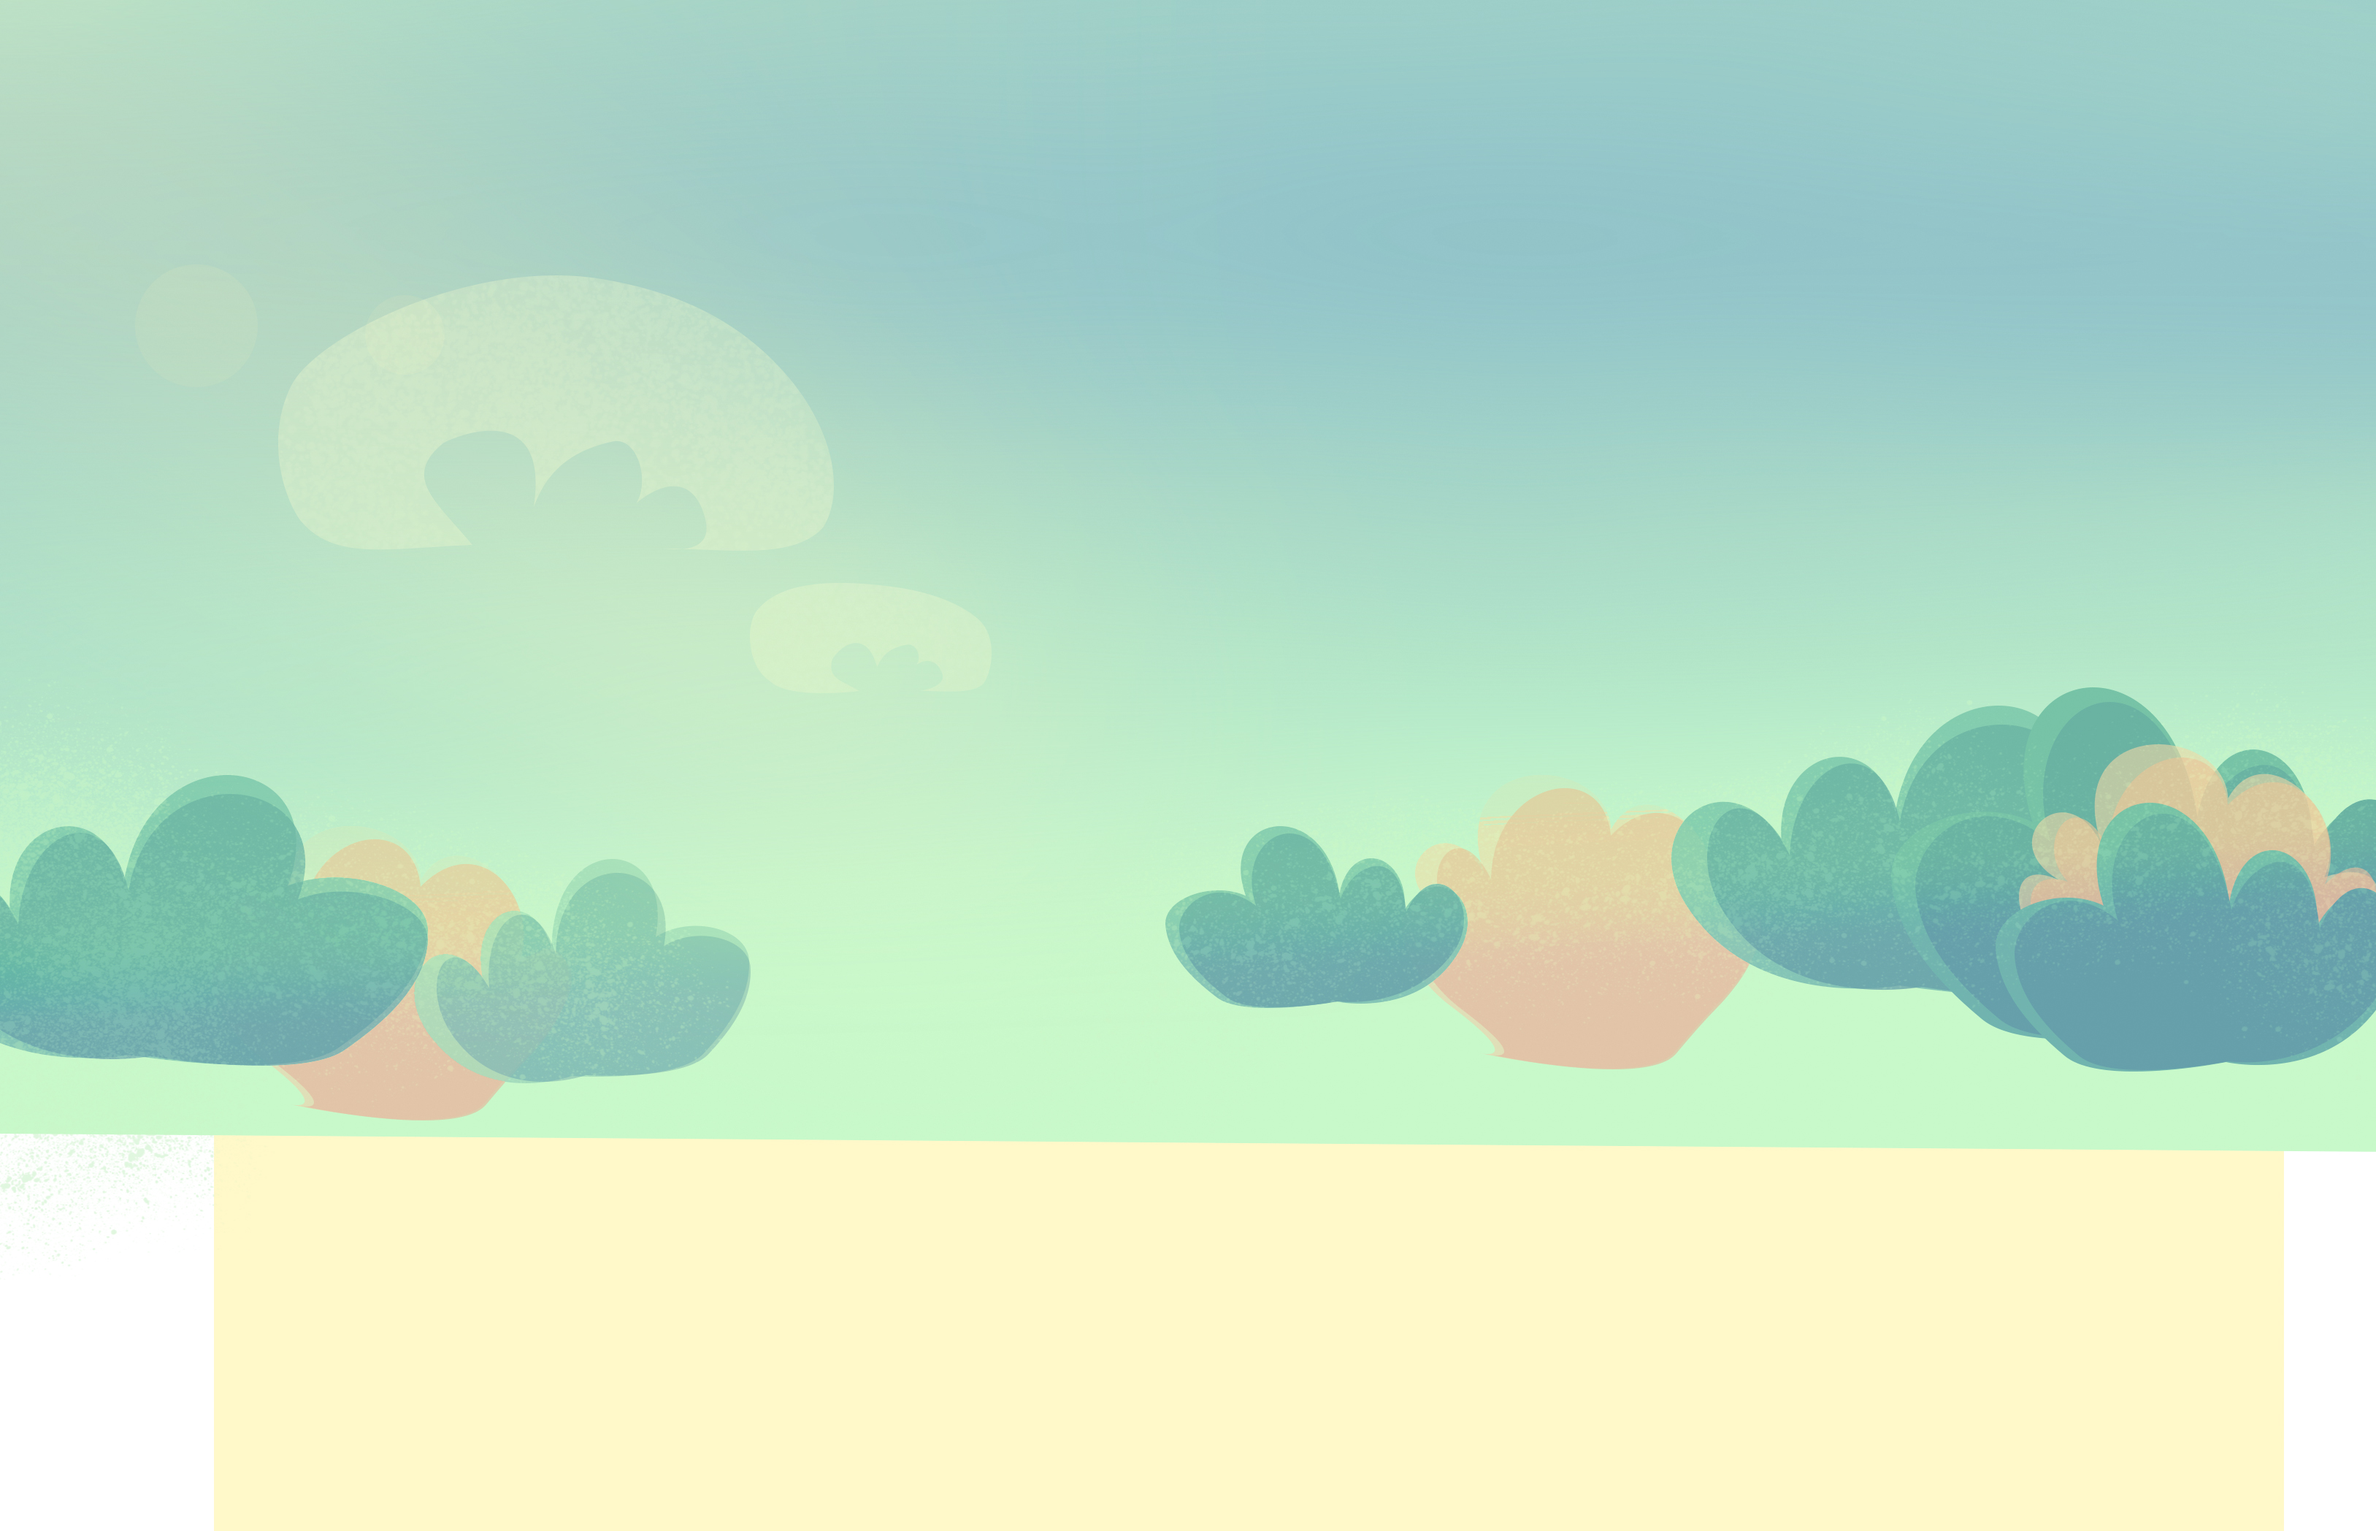
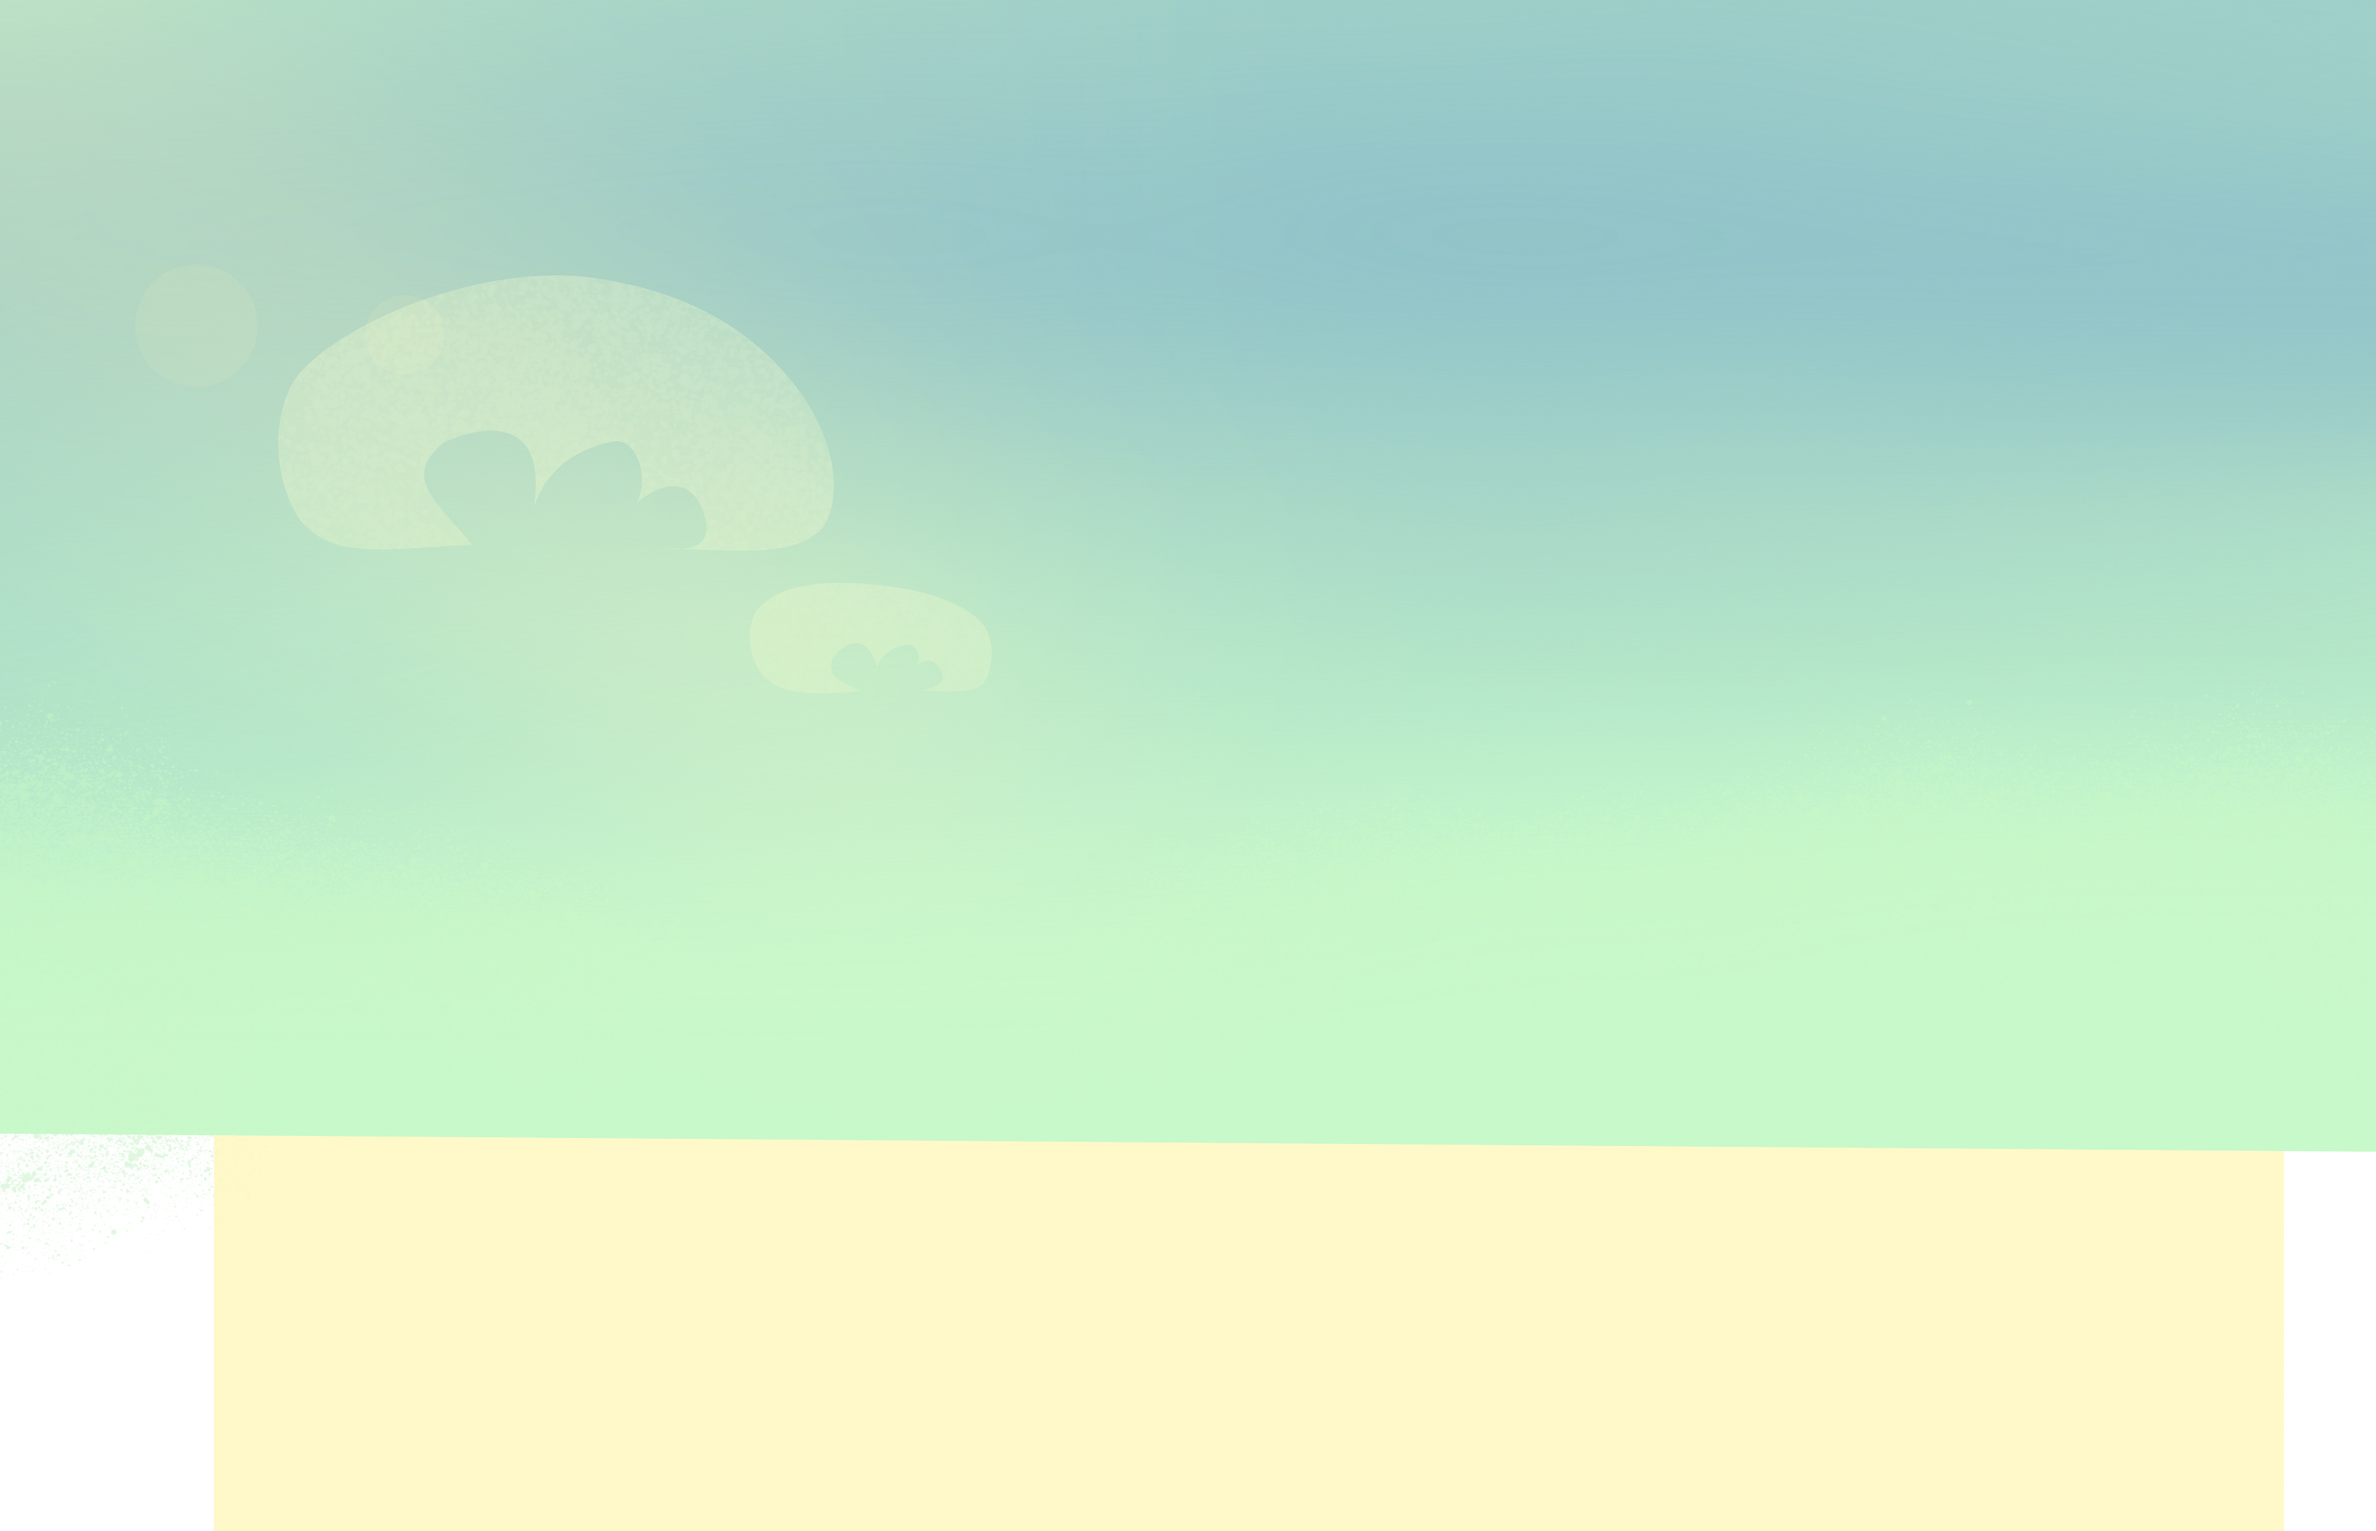
added more layers

Changed region(s): [[0.4656, 0.4342, 1.0, 0.7133], [0.0, 0.4962, 0.3414, 0.7443]]

diff --git a/assets/styles/styles.css b/assets/styles/styles.css
@@ -26,12 +26,38 @@ body {
   padding: 0;
 }
 
+.mid-leaves{
+  background-image: url("../images/mid-leaves.png");
+  background-size: cover;
+  padding-top: 1%;
+  top: 3%;
+  left: -30%;
+  width: 150%;
+  height: 700px;
+  text-align: center;
+  background-repeat: no-repeat;
+  position: absolute;
+  background-position: center ;
+}
 .foreground{
   background-image: url("../images/foreground.png");
   background-size: cover;
-  width: 150%;
-  left: -30%;
-  top: 5%;
+  width: 130%;
+  left: -20%;
+  top: 10%;
+  height: 700px;
+  text-align: center;
+  background-repeat: no-repeat;
+  position: relative;
+  background-position: center;
+   
+}
+.foreground-back{
+  background-image: url("../images/foreground-back.png");
+  background-size: cover;
+  width: 130%;
+  left: -20%;
+  top: 10%;
   height: 700px;
   text-align: center;
   background-repeat: no-repeat;
@@ -42,7 +68,7 @@ body {
 .mid{
   background-image: url("../images/mid.png");
   background-size: cover;
-  top: 3%;
+  top: 5%;
   left: -30%;
   width: 150%;
   height: 700px;
@@ -52,6 +78,21 @@ body {
   background-position: center ;
 }
 
+
+
+
+.background-bushes{
+  background-image: url("../images/background-bushes.png");
+  background-size: cover;
+  top: 3%;
+  left: -30%;
+  width: 150%;
+  height: 700px;
+  text-align: center;
+  background-repeat: no-repeat;
+  position: relative;
+  background-position: center ;
+}
 
 .background{
   background-image: url("../images/background.jpg");

diff --git a/index.html b/index.html
@@ -19,11 +19,15 @@
 
 	<div id="container">
 		<div id="scene">
-		<div class="layer" data-depth="0.10"><div class="background"></div></div>
+			<div class="layer" data-depth="0.10"><div class="background"></div></div>
+			<div class="layer" data-depth="0.30"><div class="background-bushes"></div></div>
 			
-			<div class="layer" data-depth="0.20"><div class="mid"></div></div>
 			
-<div class="layer" data-depth="0.40"><div class="foreground"></div></div>
+			<div class="layer" data-depth="0.50"><div class="mid"></div></div>
+			<div class="layer" data-depth="0.52"><div class="mid-leaves"></div></div>
+			<div class="layer" data-depth="0.70"><div class="foreground-back"></div></div>
+			
+			<div class="layer" data-depth="1.00"><div class="foreground"></div></div>
 			
 		</div>
 	
@@ -60,7 +64,7 @@ $(function() {
 //this is the funtion that is being used
 function resize() {
 	var _outerHeight = jQuery(window).height() - jQuery('#top').height();
-	jQuery('.foreground, .mid, .background').height(_outerHeight + 1);
+	jQuery('.foreground, .foreground-back, .mid-leaves, .mid, .background-bushes, .background').height(_outerHeight + 1);
 }
 
 
